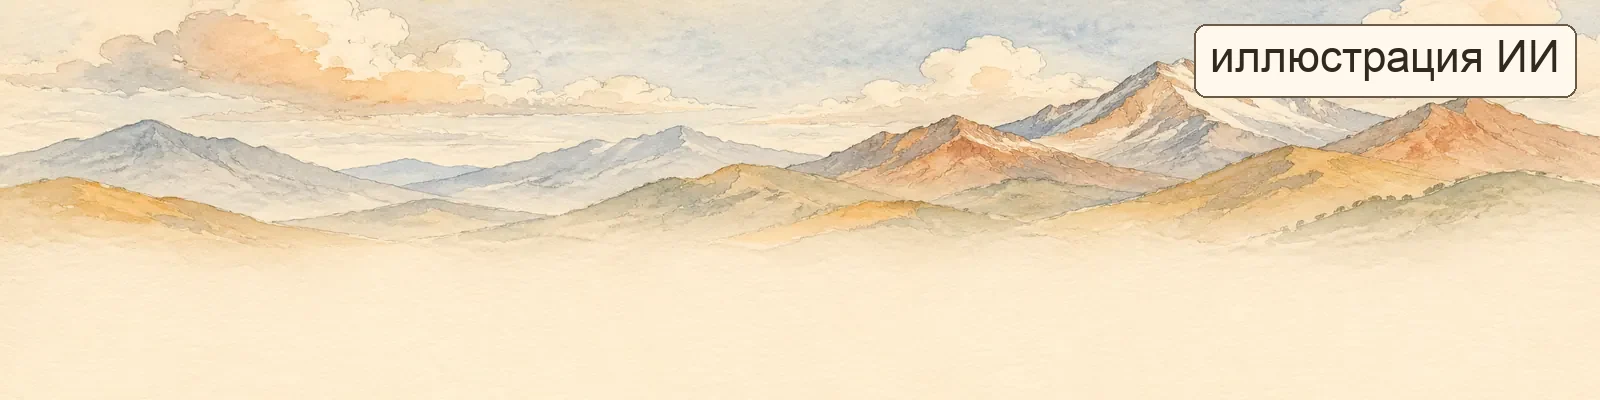
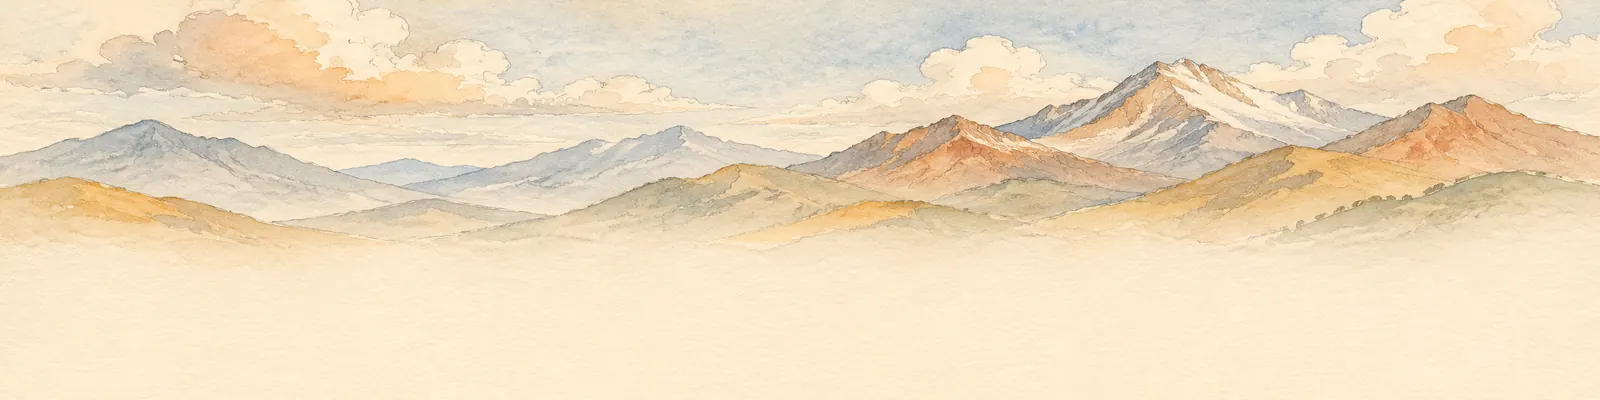
Добавить общую акварель обзора и снять плашку по просьбе пользователя

Changed region(s): [[0.7188, 0.06, 1.0, 0.27]]

diff --git a/course/theme.css b/course/theme.css
@@ -655,7 +655,14 @@ button { min-width: 44px; }
 .app-view, .step, .hero-copy, .practice-column, .lesson-results { min-width: 0; }
 .prequestion-text, .task-prompt, .claim, .summary-step, .review-card, .completion-checklist { overflow-wrap: anywhere; }
 
-/* Декоративный пейзаж со встроенной в файл меткой. Полоса не обрезается и не затемняется. */
+/* Атмосферная акварель обзора; блок добавляется только при наличии картинки. */
+.hero-illustration {
+  min-width: 0;
+  height: clamp(200px, 27vw, 330px);
+  background: var(--art-cover) center 55% / cover no-repeat;
+}
+:root[data-theme="dark"] .hero-illustration { filter: brightness(.85); }
+/* Пейзаж шага сохранён; плашка снята по явной просьбе пользователя. */
 html[data-art~="hills"] .step-plate { padding-top: 0; background: var(--paper); }
 html[data-art~="hills"] .step-plate::before {
   content: "";
@@ -665,11 +672,6 @@ html[data-art~="hills"] .step-plate::before {
   background: var(--art-hills) center / 100% 100% no-repeat;
 }
 html[data-art~="hills"] .plate-band { display: none; }
-@media (max-width: 760px) {
-  html[data-art~="hills-mobile"] .step-plate::before {
-    background-image: var(--art-hills-mobile);
-  }
-}
 @media (max-width: 1000px) {
   /* Меню должно перекрывать текст непрозрачной бумагой. */
   :root:not([data-theme="dark"]) .course-sidebar { background: var(--paper); }
@@ -711,3 +713,7 @@ html[data-art~="hills"] .plate-band { display: none; }
 /* Оси графиков и индексы формул сохраняют читаемый размер на телефоне. */
 .pressure-chart text { font: 17px var(--font-ui); }
 sub, sup { font-size: 1rem; }
+@media (max-width: 760px) {
+  .hero-stats { display: grid; grid-template-columns: repeat(2, minmax(0, 1fr)); gap: 1rem; }
+  .hero .stat { padding: .2rem .6rem .2rem 0; border-right: 0; }
+}

diff --git a/course/test_course.py b/course/test_course.py
@@ -31,6 +31,7 @@ class CourseBlocksTest(unittest.TestCase):
             self.assertIn('data-art="hills"', page)
             self.assertIn("--accent:#246378", page)
             self.assertNotIn("--art-hero:", page)
+            self.assertNotIn('class="hero-illustration"', page)
 
     def test_map_wraps_long_titles_without_losing_or_inserting_markup(self) -> None:
         title = "Незнакомое очень длинное название шага для узкого экрана <script>"
@@ -53,13 +54,14 @@ class CourseBlocksTest(unittest.TestCase):
         with tempfile.TemporaryDirectory() as temporary:
             folder = Path(temporary)
             (folder / "art").mkdir()
-            for name in ("hills.svg", "unused.svg"):
+            for name in ("cover.svg", "hills.svg", "unused.svg"):
                 (folder / "art" / name).write_text('<svg xmlns="http://www.w3.org/2000/svg"/>', encoding="utf-8")
-            css, names = art_css(str(folder), slots=("hills", "hills-mobile"))
-            self.assertEqual(names, ["hills"])
+            css, names = art_css(str(folder), slots=("cover", "hills"))
+            self.assertEqual(names, ["cover", "hills"])
             self.assertNotIn("--art-unused:", css)
             page = html_page({"nodes": [{"id": "new", "title": "Тема"}]}, {}, {}, {}, folder, domain=str(folder))
-            self.assertIn('data-art="hills"', page)
+            self.assertIn('data-art="cover hills"', page)
+            self.assertIn('class="hero-illustration"', page)
             self.assertNotIn("--art-unused:", page)
             self.assertNotIn('class="strata-scene"', page)
             self.assertNotIn('class="section-svg"', page)

diff --git a/course/build.py b/course/build.py
@@ -630,7 +630,9 @@ def html_page(layer: dict[str, Any], tasks_data: dict[str, Any], routes: Any, il
 
     domain_data = load_domain(chapter_domain(str(layer.get("chapter", "")), domain))
     tokens = domain_tokens(domain_data)
-    art_style, art_names = art_css(domain_data["folder"], slots=("hills", "hills-mobile"))
+    art_style, art_names = art_css(domain_data["folder"], slots=("cover", "hills"))
+    overview_art = ('<div class="hero-illustration" aria-hidden="true"></div>'
+                    if "cover" in art_names else "")
     _SCANS.clear()
     _SCANS.update(find_scans(base))
     videos = find_videos(base)
@@ -740,6 +742,7 @@ def html_page(layer: dict[str, Any], tasks_data: dict[str, Any], routes: Any, il
   <main id="course-content" class="layout">
     <section id="overview-view" class="app-view">
     <header class="hero">
+      {overview_art}
       <div class="hero-copy">
         <div class="hero-kicker"><span class="kicker-rule" aria-hidden="true"></span>Курс по главе книги</div>
         <h1>{hero_title}</h1>
